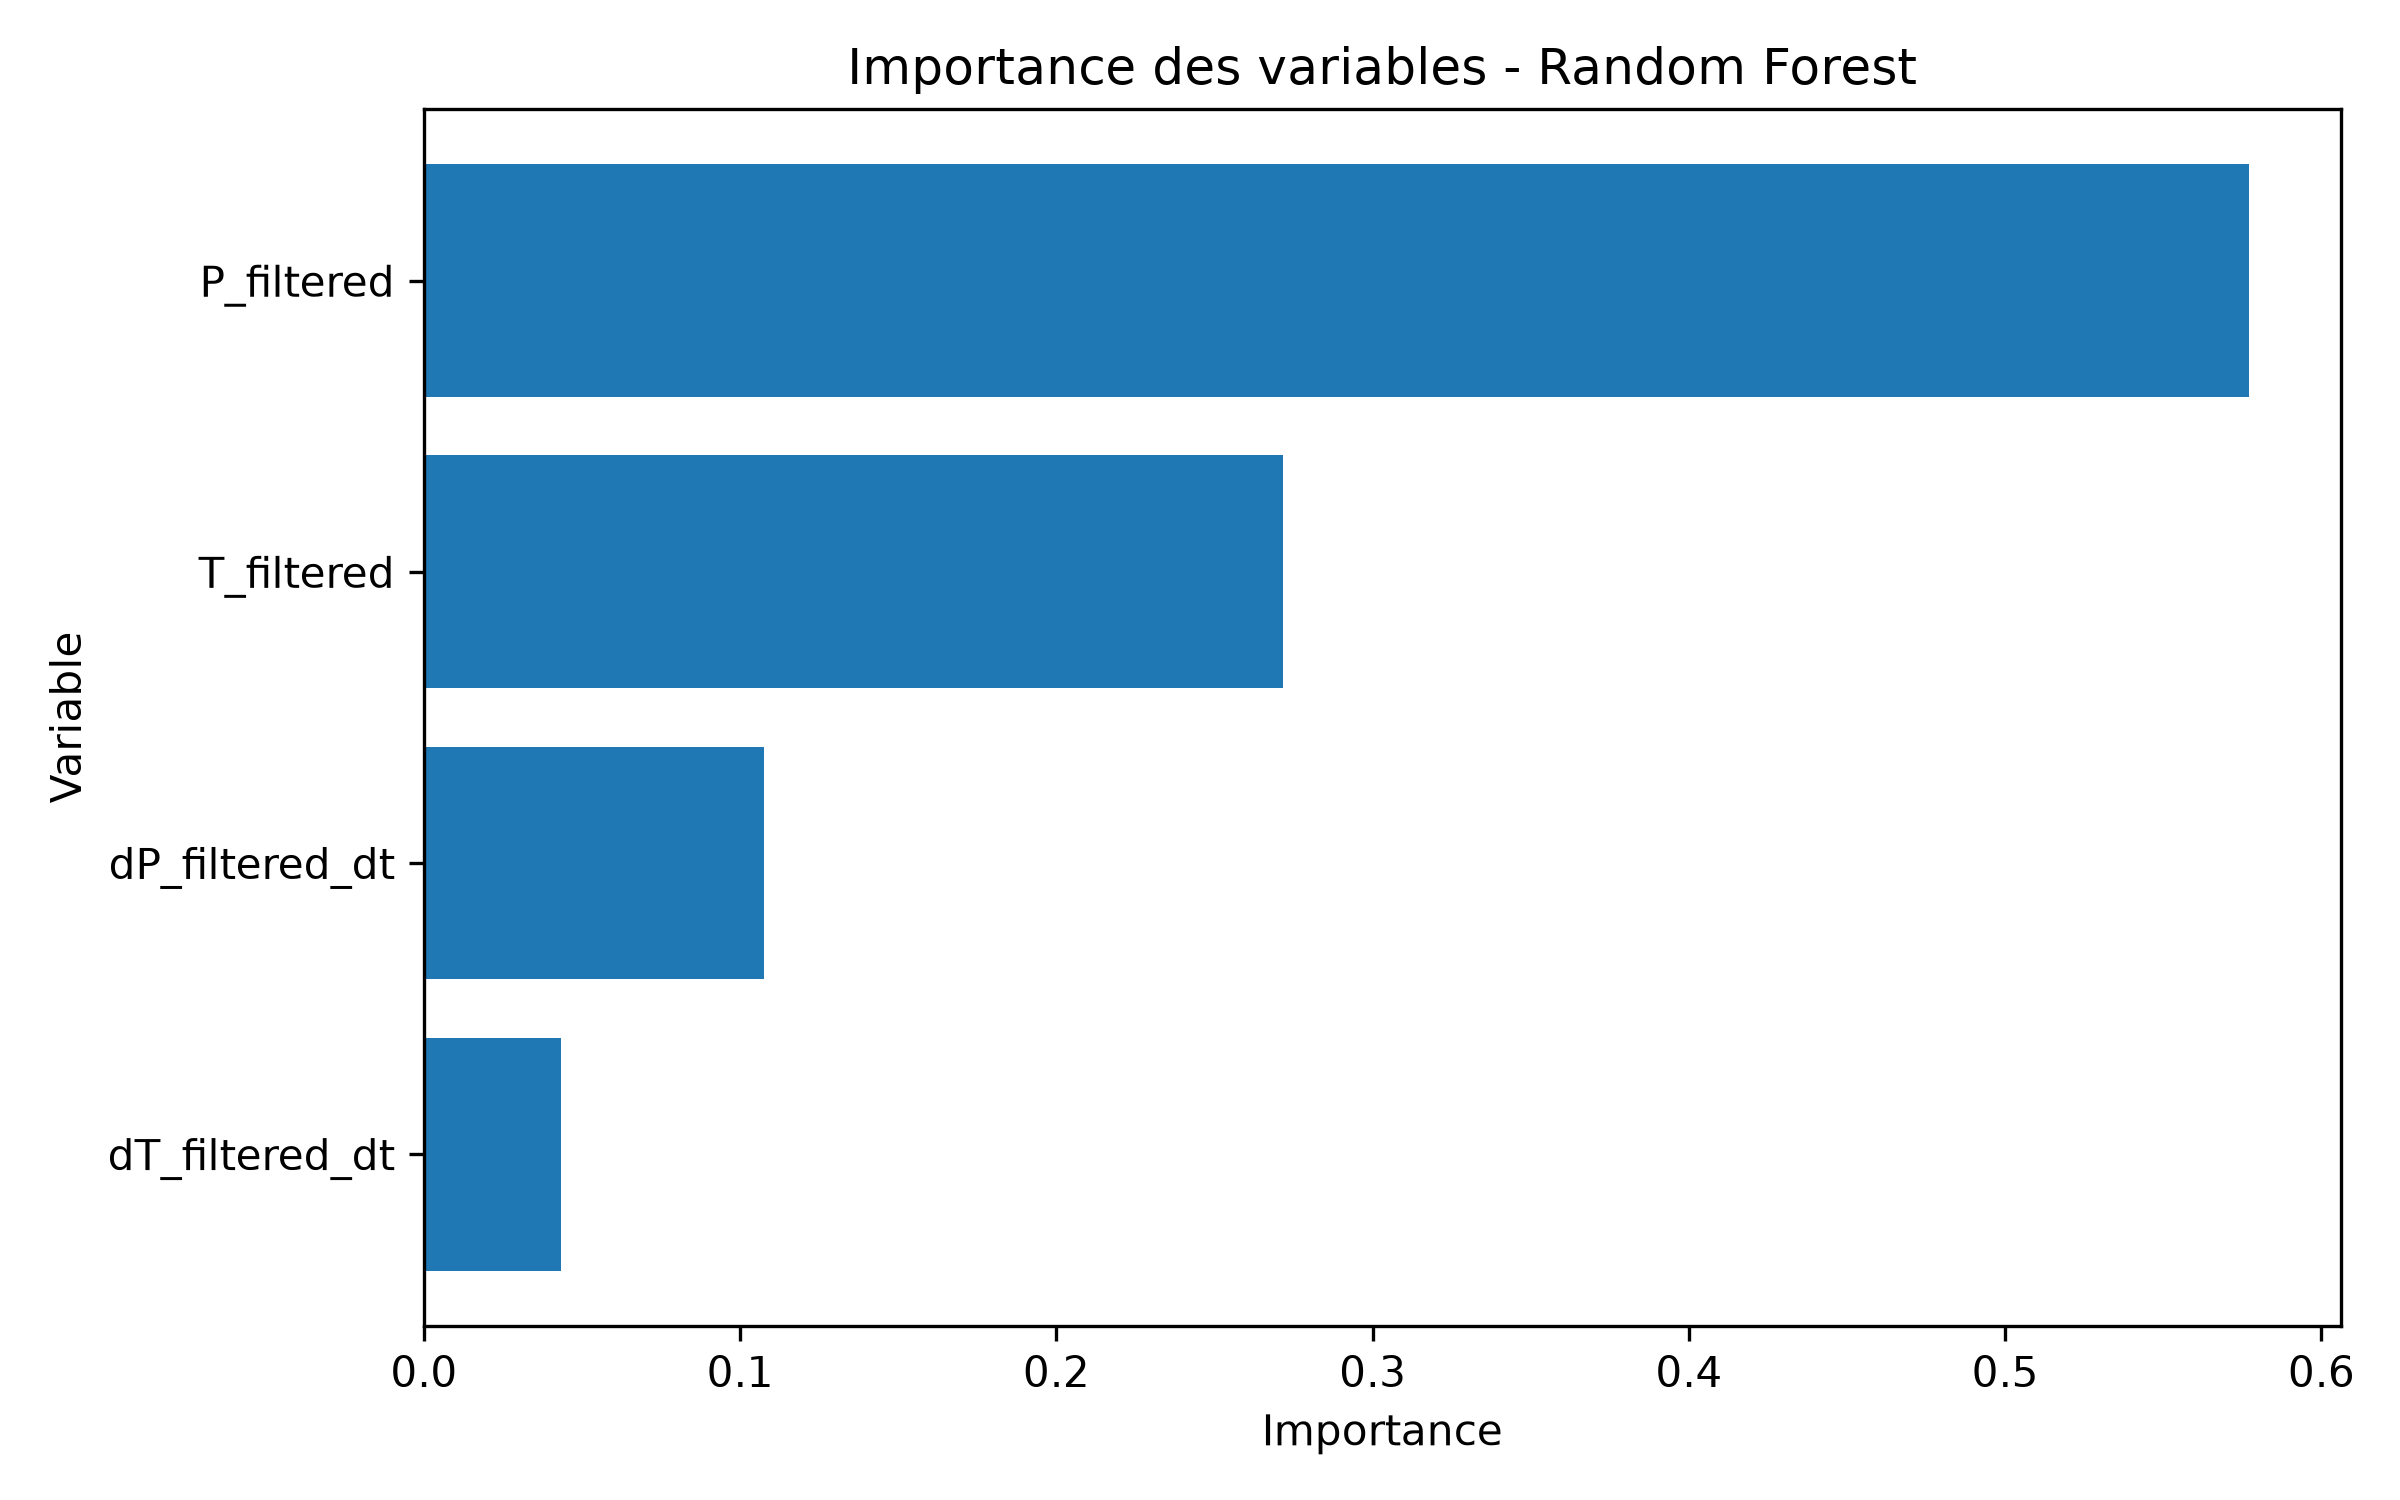
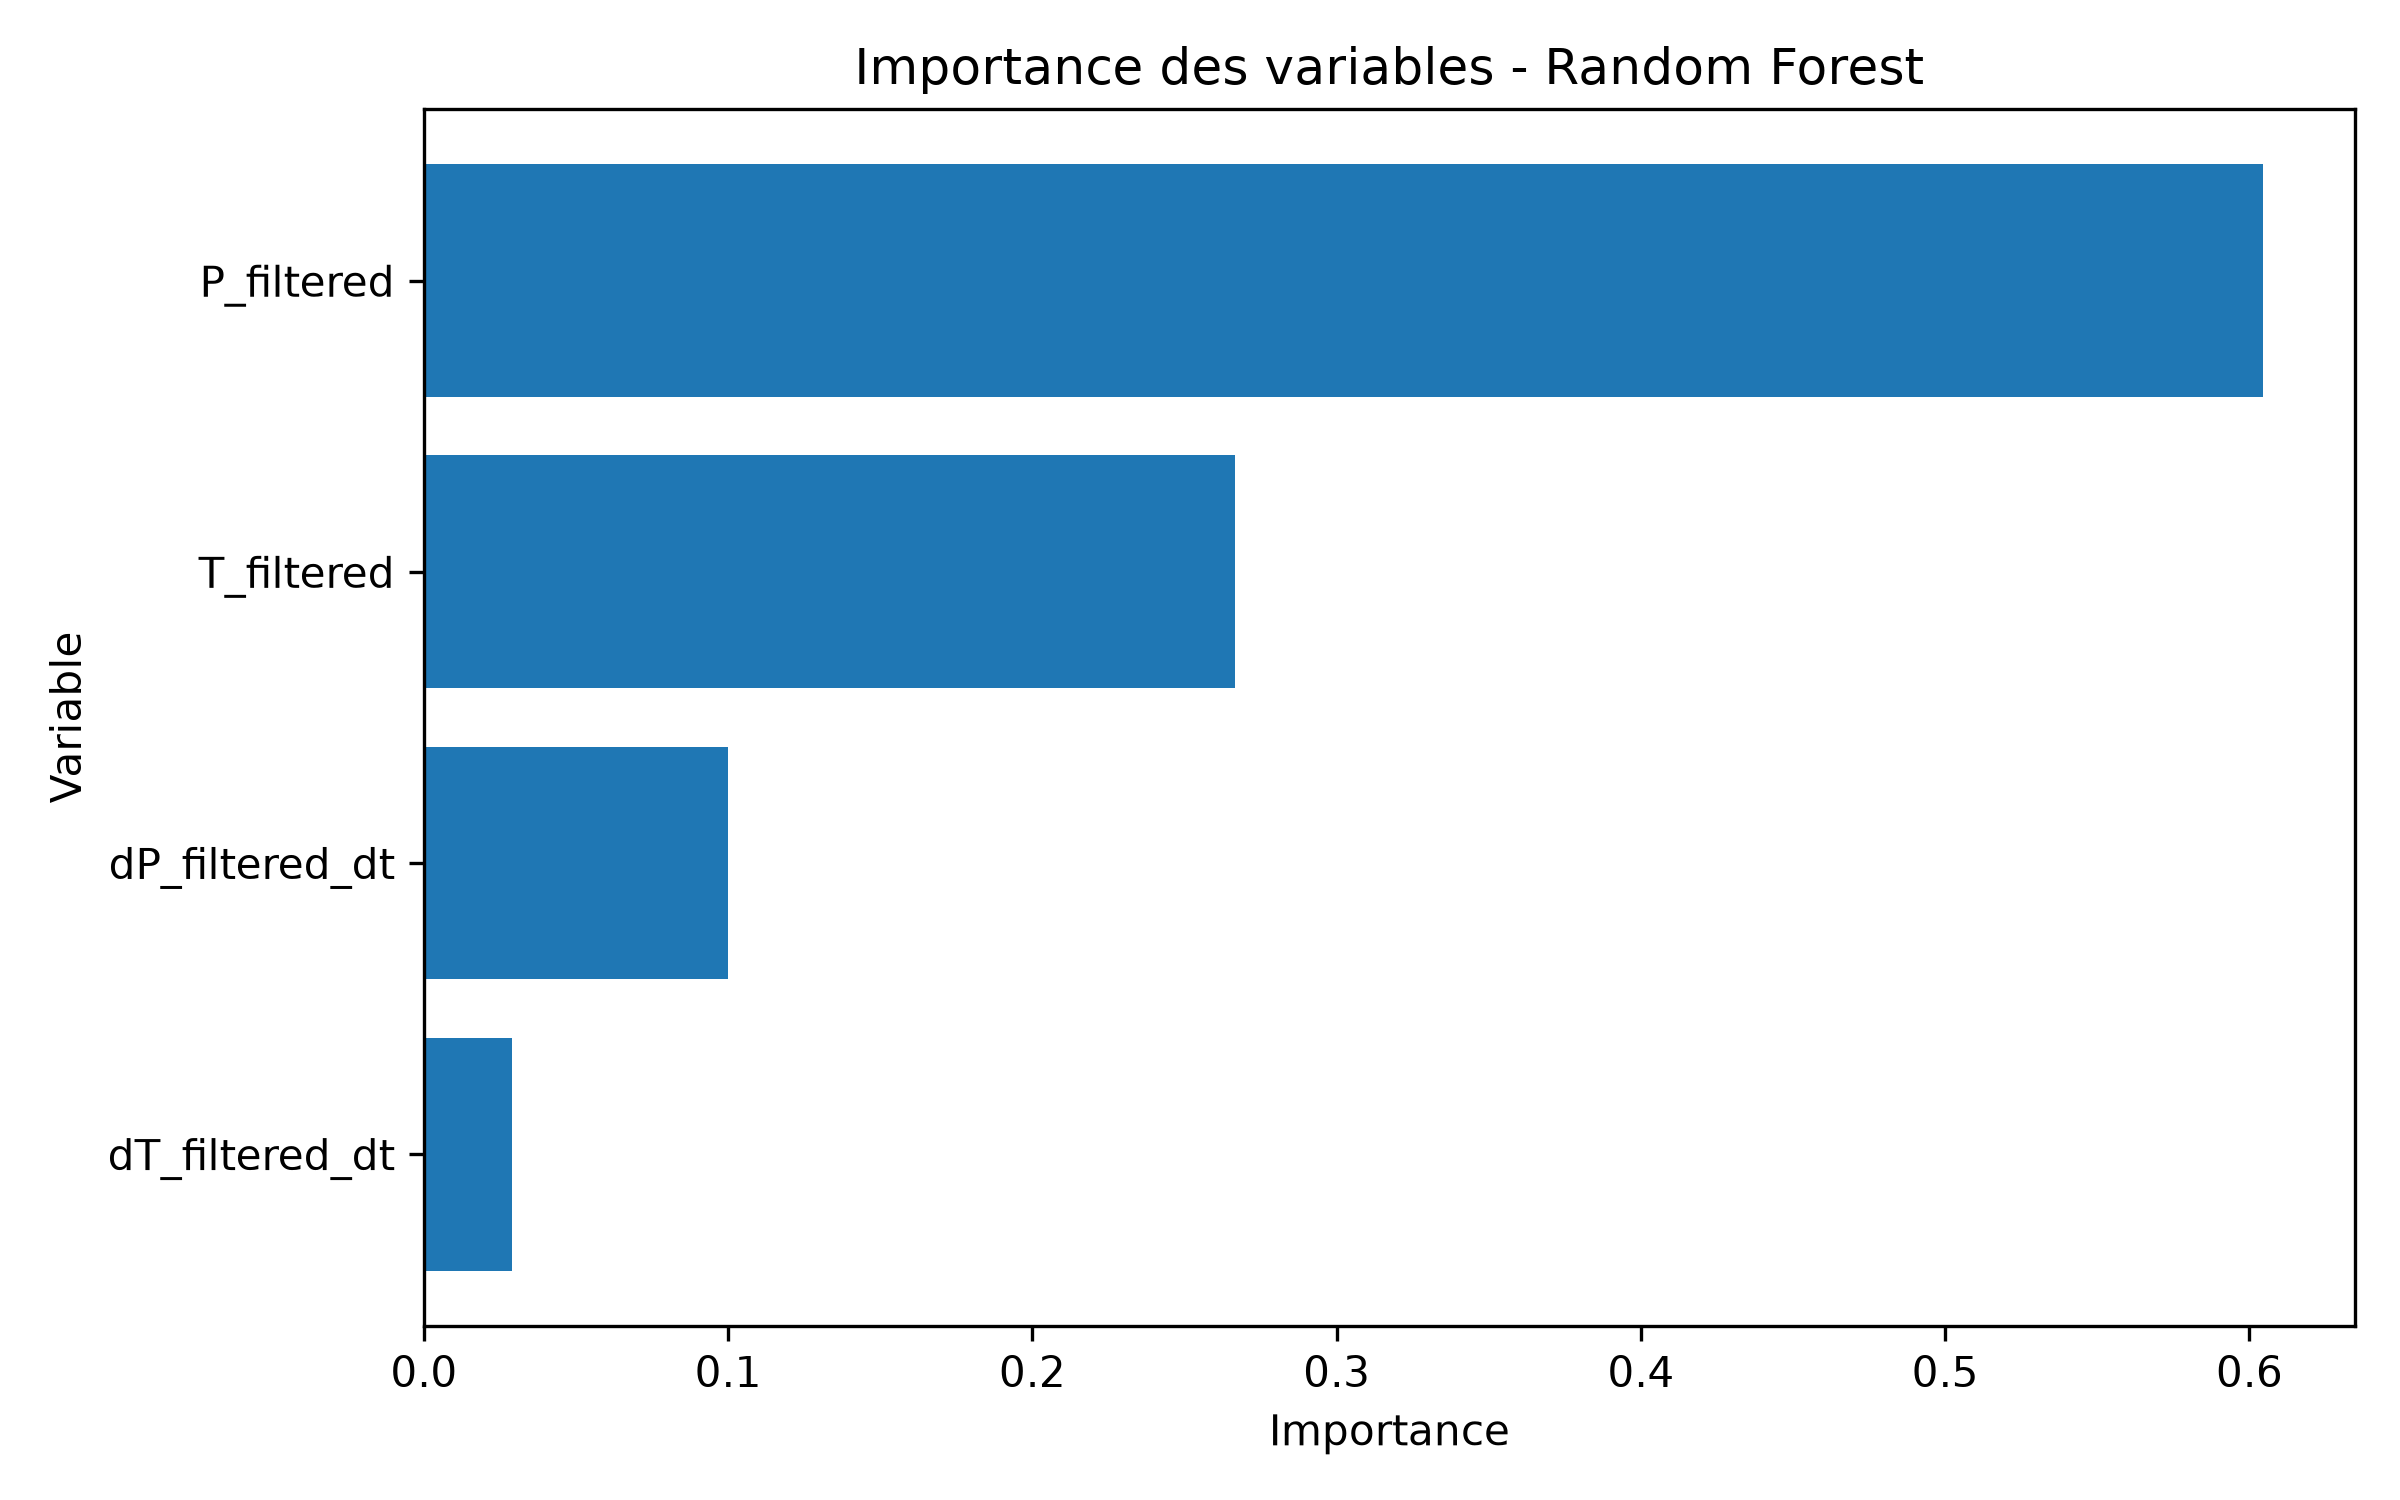
best configuration

diff --git a/RFClassification.py b/RFClassification.py
@@ -120,19 +120,18 @@ print("\nDistribution des labels - TEST")
 print(y_test.value_counts())
 print(y_test.value_counts(normalize=True))
 
-# RANDOM FOREST
+# RANDOM FOREST -- MEILLEURE CONFIGURATION OPTUNA
 model = RandomForestClassifier(
     n_estimators=300,
-    max_depth=None,
-    min_samples_split=2,
+    max_depth=30,
+    min_samples_split=8,
     min_samples_leaf=1,
     max_features="sqrt",
-    # Utile si label 1 est moins fréquent que label 0
-    class_weight="balanced",
+    class_weight=None,
+    bootstrap=False,
     random_state=RANDOM_STATE,
     n_jobs=-1,
 )
-
 
 # ENTRAINEMENT
 print("\n" + "=" * 60)
